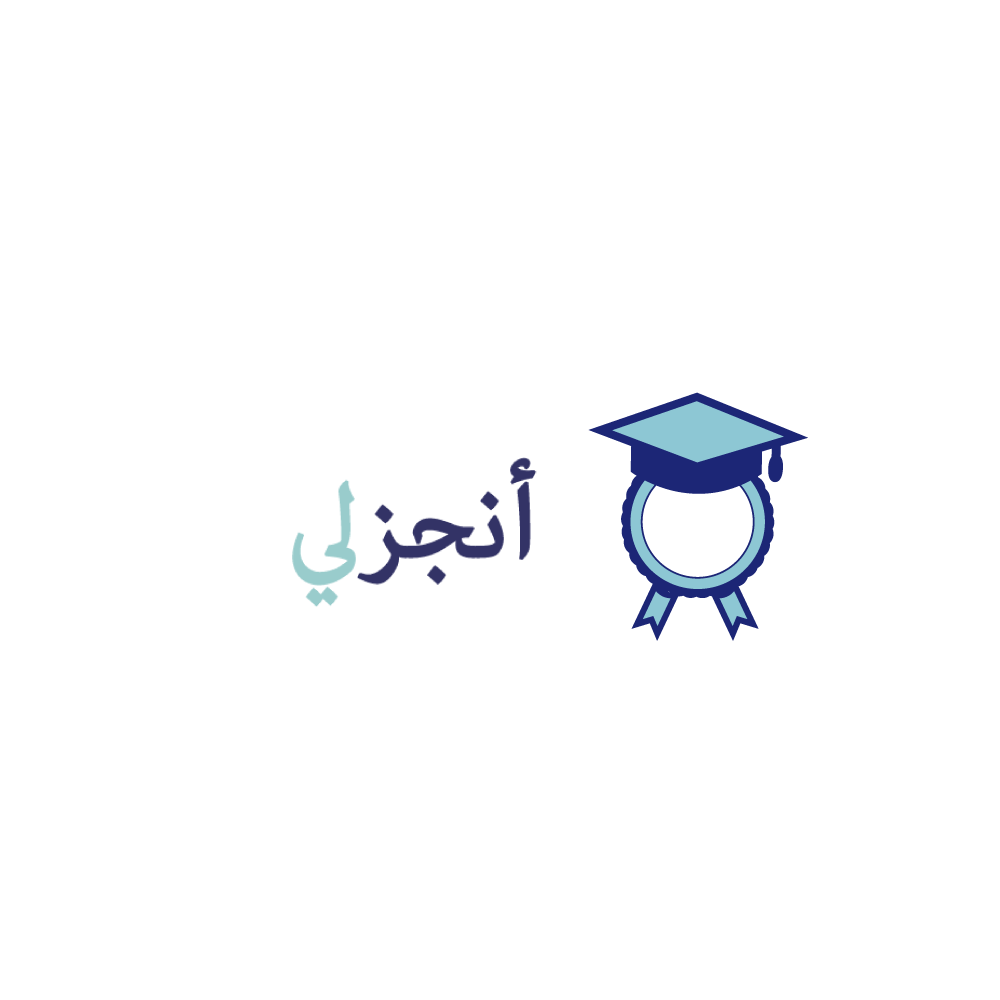
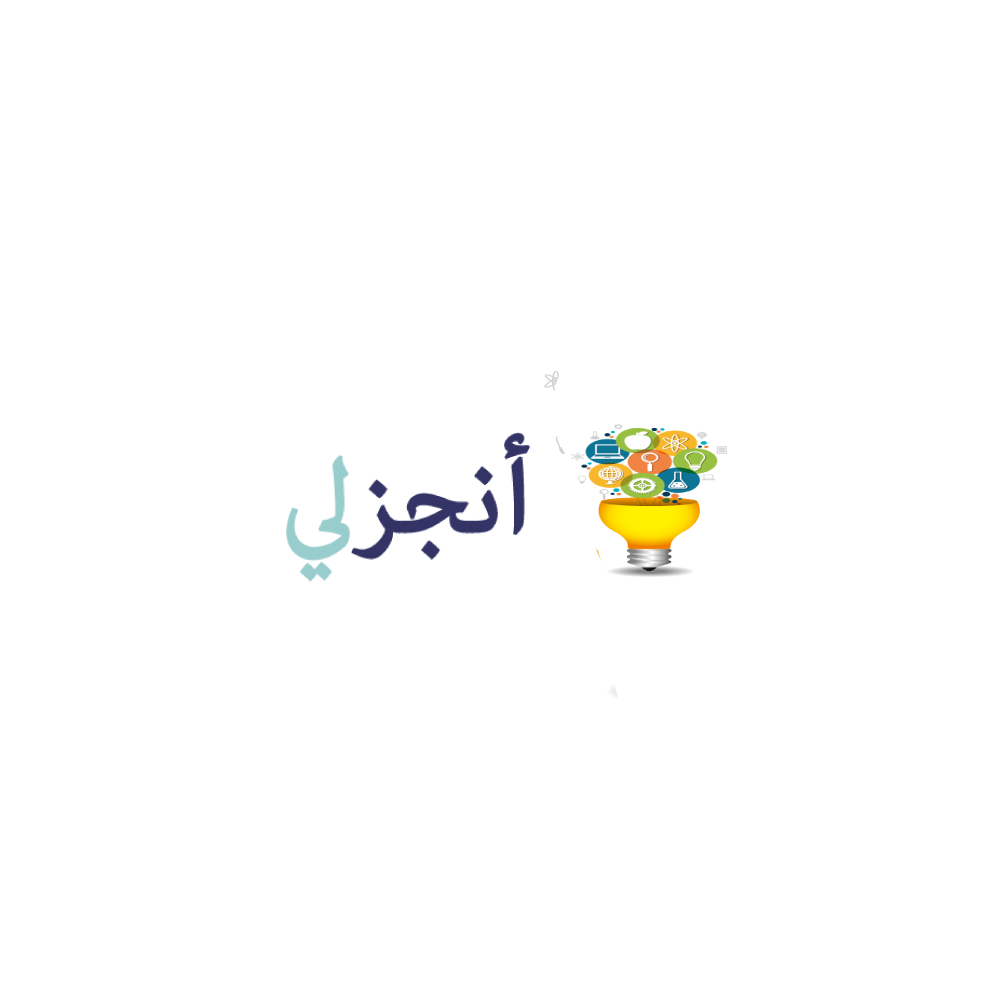
changes

Changed region(s): [[0.558, 0.372, 0.806, 0.651], [0.279, 0.434, 0.558, 0.62]]

diff --git a/SiteData.js b/SiteData.js
@@ -101,7 +101,7 @@ export const privacy = `أولاً: تعريفات المصطلحات
 3. يكون إشعار إرسال العمل للمستخدم من خلال الرسائل الواردة في ملفه الشخصي على التطبيق وليس من خلال البريد الإلكتروني أو رسائل الجوال.`;
 
 export const who = `
-انجزلي اول موقع وتطبيق سعودي يهدف إلى تقديم الخدمات للمجتمع الباحث عن تلك الخدمات المهمه من مقالات وعروض البوربوينت وخدمات الترجمه ، كما يهدف في الوقت ذاته إلى تقديم تلك الخدمات إلى المشتري بأسعار مناسبة بعيداً عن استغلال بعض الشركات والأفراد ، حيث يقوم انجزلي بتقديم الخدمات من مقالات و وعروض البوربوينت وخدمات الترجمه مع ضمان كامل لحقوق كلا الطرفين، بحيث لايجد المشتري نفسه مضطراً للتنقل وإضاعة الوقت، حيث بات بالإمكان إنجاز العمل من خلال موقع وتطبيق إنجزلي بخطوات سهلة وبسيطة.
+انجزلي اول موقع وتطبيق سعودي يهدف إلى تقديم الخدمات الدعائية للمجتمع الباحث عن تلك الخدمات المهمه من فيديوهات الموشن جرافيك و الأنميشن و فيديوهات حسب الطلب و انشاء البوسترات الدعائيه بكافة انواعها  ، كما يهدف في الوقت ذاته إلى تقديم تلك الخدمات إلى المشتري بأسعار مناسبة بعيداً عن استغلال بعض الشركات والأفراد ، حيث يقوم انجزلي بتقديم الخدمات الدعائية من فيديوهات الموشن جرافيك و الأنميشن و فيديوهات حسب الطلب و انشاء البوسترات الدعائيه بكافة انواعها مع ضمان كامل لحقوق كلا الطرفين، بحيث لايجد المشتري نفسه مضطراً للتنقل وإضاعة الوقت، حيث بات بالإمكان إنجاز العمل من خلال موقع وتطبيق إنجزلي بخطوات سهلة وبسيطة.
 
 ويقوم الموقع بعرض الخدمات بأسلوب سهل وبسيط، وبأسعار تناسب العميل حيث يبدأ بإنجاز الخدمات للعميل بكل سهوله ويسر ، ويستخدم الموقع وسائل دفع آمنه لكافة العملاء لتسهيل عمليه الدفع لدينا.
 

diff --git a/screens/HomeStack/Privacy.jsx b/screens/HomeStack/Privacy.jsx
@@ -26,8 +26,8 @@ const Privacy = () => {
             marginVertical: 10,
           }}
         >
-          يعمل التطبيق كمتجر الكتروني مختص في الخدمات في المملكة
-          العربية السعودية وتتعدد الخدمات التي يقدمها ما بين تقديم الترجمة والباوربوينت والمقالات
+          يعمل التطبيق كمتجر الكتروني مختص في الخدمات الدعائية في المملكة
+          العربية السعودية وتتعدد الخدمات التي يقدمها ما بين تقديم فيديوهات الموشن جرافيك و الأنميشن و فيديوهات حسب الطلب و انشاء البوسترات الدعائيه بكافة انواعها 
         </Text>
         <Text
           style={{

diff --git a/screens/Startup.jsx b/screens/Startup.jsx
@@ -35,8 +35,8 @@ const Startup = ({ navigation }) => {
           >
             {" "}
             {interval === 1
-              ? "نقدم لك ما تريد من الخدمات الدراسية بجودة وسرعة واتقان"
-              : "نقدم لك كل ما هو جديد ومتطور في متطلباتك الدراسية"}
+              ? "نقدم لك ما تريد من الخدمات الدعائيى بجودة وسرعة واتقان"
+              : "نقدم لك كل ما هو جديد ومتطور في متطلباتك الدعائية"}
           </Text>
           <TouchableOpacity
             onPress={startApp}
